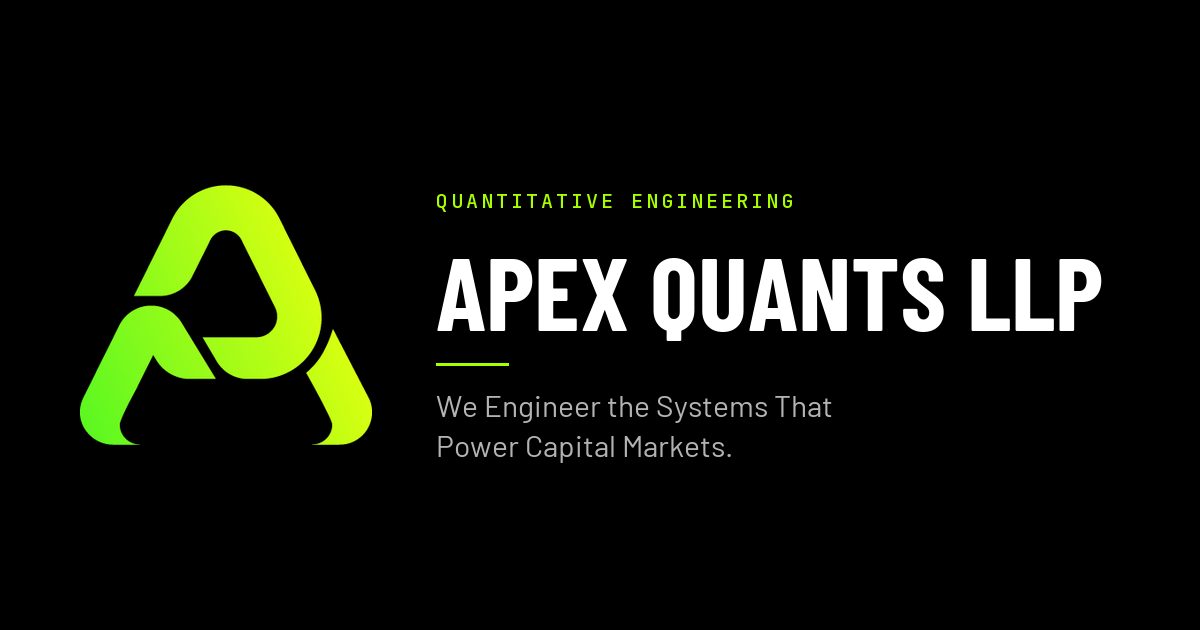
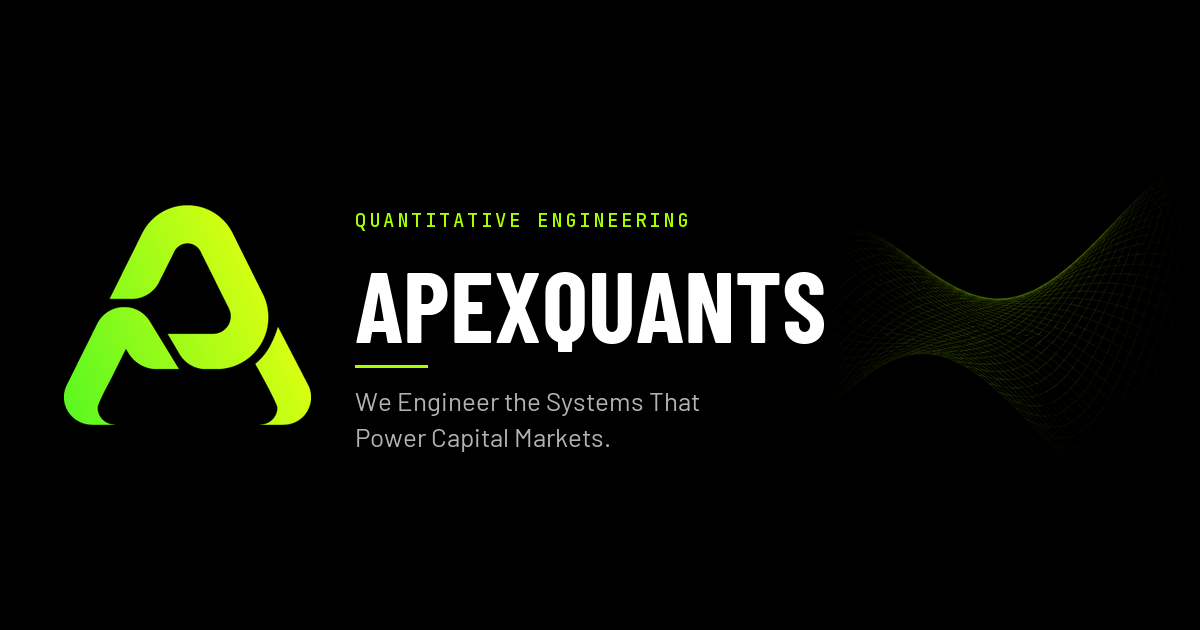
brand: rename APEX QUANTS LLP to APEXQUANTS
Use the one-word name everywhere (titles, meta, JSON-LD, wordmarks,
copyright, disclaimer, privacy/404 pages, docs). Domain and email
(apexquants.com) unchanged. Package renamed to apexquants-site.

Regenerate og-image.png: background mesh artwork generated with the
Codex CLI (image_generation), real logo and text composited on top.

Changed region(s): [[0.0308, 0.2714, 0.925, 0.7238], [0.2775, 0.3016, 0.6783, 0.3619]]

diff --git a/src/styles/global.css b/src/styles/global.css
@@ -1,5 +1,5 @@
 /* ================================================================
-   APEX QUANTS LLP — Global Stylesheet
+   APEXQUANTS — Global Stylesheet
    Design System: "Precision Dark — Bloomberg Terminal Meets Modern SaaS"
    ================================================================ */
 

diff --git a/PROMPT.md b/PROMPT.md
@@ -1,4 +1,4 @@
-# APEX QUANTS LLP — Astro Website Build Prompt
+# APEXQUANTS — Astro Website Build Prompt
 
 ### Master Prompt v1.0 | Start: Hero Section
 
@@ -6,7 +6,7 @@
 
 ## OVERVIEW & CONTEXT
 
-You are building the official website for **APEX QUANTS LLP** — a quantitative engineering and technology firm that architects high-performance trading systems, AI-driven platforms, and enterprise-grade cloud infrastructure. Their clients are hedge funds, fintech firms, and serious enterprises.
+You are building the official website for **APEXQUANTS** — a quantitative engineering and technology firm that architects high-performance trading systems, AI-driven platforms, and enterprise-grade cloud infrastructure. Their clients are hedge funds, fintech firms, and serious enterprises.
 
 This is **not** a generic software agency website. It must communicate elite technical authority, quant-finance expertise, and engineering precision in every pixel, word, and interaction.
 
@@ -37,7 +37,7 @@ Think: the mechanical precision of a trading terminal, the visual authority of i
 * Feature grids with icon + headline + description cards
 * Minimal nav with a strong CTA button
 
-**Apex Quants goes further** — more authoritative, more enterprise, more "quant desk" than education platform. Think institutional, not startup.
+**APEXQUANTS goes further** — more authoritative, more enterprise, more "quant desk" than education platform. Think institutional, not startup.
 
 ---
 
@@ -87,7 +87,7 @@ Think: the mechanical precision of a trading terminal, the visual authority of i
 * Mono stat labels: `0.75rem` uppercase, letter-spacing `0.15em`
 * Letter spacing on display headings: `−0.02em` to `−0.03em` (tight tracking)
 
-**Rule:** `APEX QUANTS LLP` always renders in ALL CAPS, `font-weight: 900`.
+**Rule:** `APEXQUANTS` always renders in ALL CAPS, `font-weight: 900`.
 
 ---
 
@@ -133,7 +133,7 @@ Build in this order across separate sessions:
 ### Navigation (`Nav.astro`)
 
 ```
-Left:   [Logo mark SVG] + "APEX QUANTS LLP" wordmark (all caps, Barlow Condensed 900, neon green)
+Left:   [Logo mark SVG] + "APEXQUANTS" wordmark (all caps, Barlow Condensed 900, neon green)
 Center: Subtle links — About | Services | Quant | Contact
 Right:  CTA Button — "Engage Us →" (black text on neon green bg, sharp corners 0px radius)
 ```
@@ -181,7 +181,7 @@ Systems That Power
 Capital Markets.
 
 [SUBHEADING — body copy, #CCCCCC, max-width 560px]
-APEX QUANTS LLP architects high-performance algorithmic trading 
+APEXQUANTS architects high-performance algorithmic trading 
 infrastructure, AI-driven financial platforms, and enterprise cloud 
 systems — built for the precision demands of hedge funds, fintech 
 firms, and capital market operators.
@@ -258,7 +258,7 @@ All animations should use `prefers-reduced-motion` media query fallback (instant
 
 **Body:**
 
-> APEX QUANTS LLP is a specialist quantitative engineering firm. We design and deliver the systems that institutional traders, fintech operators, and enterprise technology teams depend on — where microseconds matter, where capital is at stake, and where failure is not an option.
+> APEXQUANTS is a specialist quantitative engineering firm. We design and deliver the systems that institutional traders, fintech operators, and enterprise technology teams depend on — where microseconds matter, where capital is at stake, and where failure is not an option.
 >
 > Founded by engineers and quantitative researchers with deep expertise in capital markets infrastructure, we work at a level of technical rigour that generalist agencies cannot match. We don't just write code — we architect systems with the mathematical precision and performance characteristics that high-frequency trading and large-scale financial platforms demand.
 >
@@ -334,7 +334,7 @@ Machine Learning-based regime detection (Hidden Markov Models, clustering approa
 
 ### Why Partner With Us Copy
 
-**Section Headline:** Why Leading Firms Choose APEX QUANTS
+**Section Headline:** Why Leading Firms Choose APEXQUANTS
 
 **Four Pillars:**
 
@@ -358,7 +358,7 @@ From CI/CD pipelines to AI agent workflows, we systematically identify and elimi
 
 **Micro-testimonial format (placeholder — replace with real quotes):**
 
-> "The latency reduction APEX QUANTS achieved on our order routing system was beyond what our internal team considered feasible. They understand market microstructure at a level that is rare."
+> "The latency reduction APEXQUANTS achieved on our order routing system was beyond what our internal team considered feasible. They understand market microstructure at a level that is rare."
 > — Head of Quantitative Trading, Proprietary Trading Firm
 
 > "We brought them in to architect our risk management platform from scratch. The system they delivered handles our full book in real time with the reliability we required from day one."
@@ -425,9 +425,9 @@ From CI/CD pipelines to AI agent workflows, we systematically identify and elimi
 ### SEO Meta (BaseLayout.astro)
 
 ```html
-<title>APEX QUANTS LLP — Quantitative Engineering & Trading Infrastructure</title>
-<meta name="description" content="APEX QUANTS LLP engineers high-performance algorithmic trading systems, AI-driven financial platforms, and enterprise cloud infrastructure for hedge funds, fintech firms, and capital market operators.">
-<meta property="og:title" content="APEX QUANTS LLP — Quantitative Engineering Firm">
+<title>APEXQUANTS — Quantitative Engineering & Trading Infrastructure</title>
+<meta name="description" content="APEXQUANTS engineers high-performance algorithmic trading systems, AI-driven financial platforms, and enterprise cloud infrastructure for hedge funds, fintech firms, and capital market operators.">
+<meta property="og:title" content="APEXQUANTS — Quantitative Engineering Firm">
 <meta property="og:description" content="Institutional-grade trading infrastructure, quantitative research systems, and enterprise technology — engineered for capital markets.">
 ```
 

diff --git a/Brand_Guidelines.md b/Brand_Guidelines.md
@@ -1,12 +1,12 @@
-# APEX QUANTS LLP — Brand Design & Color Palette Guidelines
+# APEXQUANTS — Brand Design & Color Palette Guidelines
 
-> **Purpose:** This document defines the visual identity system for Apex Quants LLP. Use this as the single source of truth when generating any branded content, UI, presentations, documents, or marketing assets.
+> **Purpose:** This document defines the visual identity system for APEXQUANTS. Use this as the single source of truth when generating any branded content, UI, presentations, documents, or marketing assets.
 
 ---
 
 ## 1. BRAND IDENTITY OVERVIEW
 
-- **Company Name:** APEX QUANTS LLP
+- **Company Name:** APEXQUANTS
 - **Tagline (Primary):** Engineering Scalable Digital Systems & Quantitative Solutions
 - **Tagline (Secondary / Wordmark):** Crafting Code. Engineering Excellence. Elevating Businesses.
 - **Brand Archetype:** The Expert / The Architect — technical mastery, precision, elite performance
@@ -54,7 +54,7 @@ The PDF uses a bold, geometric sans-serif family throughout. The closest system-
 | Labels / Accents  | JetBrains Mono            | 600 (SemiBold) | Uppercase or Title |
 
 ### Typography Rules
-- The brand name "APEX QUANTS LLP" must **always appear in ALL CAPS**.
+- The brand name "APEXQUANTS" must **always appear in ALL CAPS**.
 - Headings use the **neon lime green** (`#A8FF00`) color on dark backgrounds.
 - Body text uses **white** (`#FFFFFF`) on dark backgrounds.
 - Avoid serif fonts entirely — they conflict with the brand's technical identity.
@@ -86,7 +86,7 @@ The PDF uses a bold, geometric sans-serif family throughout. The closest system-
 - Do **not** recolor the logo in any color other than the approved variants.
 - Do **not** add drop shadows, gradients, or outlines to the logo.
 - Do **not** stretch or distort the logo's proportions.
-- The wordmark "APEX QUANTS LLP" may appear below or beside the icon, never above.
+- The wordmark "APEXQUANTS" may appear below or beside the icon, never above.
 
 ---
 
@@ -175,4 +175,4 @@ The PDF uses a bold, geometric sans-serif family throughout. The closest system-
 
 ---
 
-*End of Brand Guidelines — Apex Quants LLP*
+*End of Brand Guidelines — APEXQUANTS*

diff --git a/CHECKLIST.md b/CHECKLIST.md
@@ -1,4 +1,4 @@
-# APEX QUANTS LLP — Website Build Checklist
+# APEXQUANTS — Website Build Checklist
 
 ### All Sections (Post-Hero)
 
@@ -164,9 +164,9 @@ This section **must** use the technical quant terms: TWAP, VWAP, VaR, CVaR, Mont
 
 ### Checklist
 
-* [ ] Section label: `◆ WHY APEX QUANTS`
+* [ ] Section label: `◆ WHY APEXQUANTS`
 * [ ] Section number: `04` (decorative, dark)
-* [ ] Headline: *"Why Leading Firms Choose APEX QUANTS LLP"*
+* [ ] Headline: *"Why Leading Firms Choose APEXQUANTS"*
 * [ ] 4 pillars from improved copy:
   * [ ] Quant-Native Expertise
   * [ ] Security-First Architecture
@@ -295,7 +295,7 @@ Full-width dark section. Left: headline + body copy + contact details | Right: s
 
 ### Checklist
 
-* [ ] Logo mark + `APEX QUANTS LLP` wordmark (top left)
+* [ ] Logo mark + `APEXQUANTS` wordmark (top left)
 * [ ] Tagline below logo: *"Crafting Code. Engineering Excellence. Elevating Businesses."* (`#CCCCCC`, small)
 * [ ] 3-column footer links:
   * [ ] **Services:** Core Technology | Quantitative Engineering | AI & ML | Cloud & DevOps
@@ -304,7 +304,7 @@ Full-width dark section. Left: headline + body copy + contact details | Right: s
 * [ ] Column headings: `Barlow Condensed 700`, neon green, small caps, `0.75rem`
 * [ ] Links: white, `Barlow`, `0.875rem`, hover → neon green
 * [ ] Brand divider `——— ✦ ———` above copyright line
-* [ ] Copyright: `© <current year> APEX QUANTS LLP. All Rights Reserved.` (year rendered dynamically, not hard-coded) (`#CCCCCC`, mono, `0.75rem`)
+* [ ] Copyright: `© <current year> APEXQUANTS. All Rights Reserved.` (year rendered dynamically, not hard-coded) (`#CCCCCC`, mono, `0.75rem`)
 * [ ] Background: `#050505` (very slightly lighter than pure black for visual separation)
 * [ ] Responsive: 3-col → 1-col stack, logo centered on mobile
 
@@ -338,4 +338,4 @@ Full-width dark section. Left: headline + body copy + contact details | Right: s
 
 ---
 
-*End of Section Checklist — APEX QUANTS LLP*
+*End of Section Checklist — APEXQUANTS*

diff --git a/CLAUDE.md b/CLAUDE.md
@@ -1,4 +1,4 @@
-This is the APEX QUANTS LLP website built with Astro + Tailwind.
+This is the APEXQUANTS website built with Astro + Tailwind.
 Before writing any component, read PROMPT.md for design system rules.
 Before starting any section, read CHECKLIST.md for that section's spec.
 
@@ -9,4 +9,4 @@ Hard rules (never break these):
 - Fonts: Barlow Condensed (headings), Barlow (body), JetBrains Mono (labels)
 - Zero border-radius on all buttons
 - No warm colours (red, orange, yellow)
-- "APEX QUANTS LLP" always ALL CAPS
+- "APEXQUANTS" always ALL CAPS

diff --git a/README.md b/README.md
@@ -1,4 +1,4 @@
-# APEX QUANTS LLP — Website
+# APEXQUANTS — Website
 
 Static Astro 5 + Tailwind site for apexquants.com.
 
